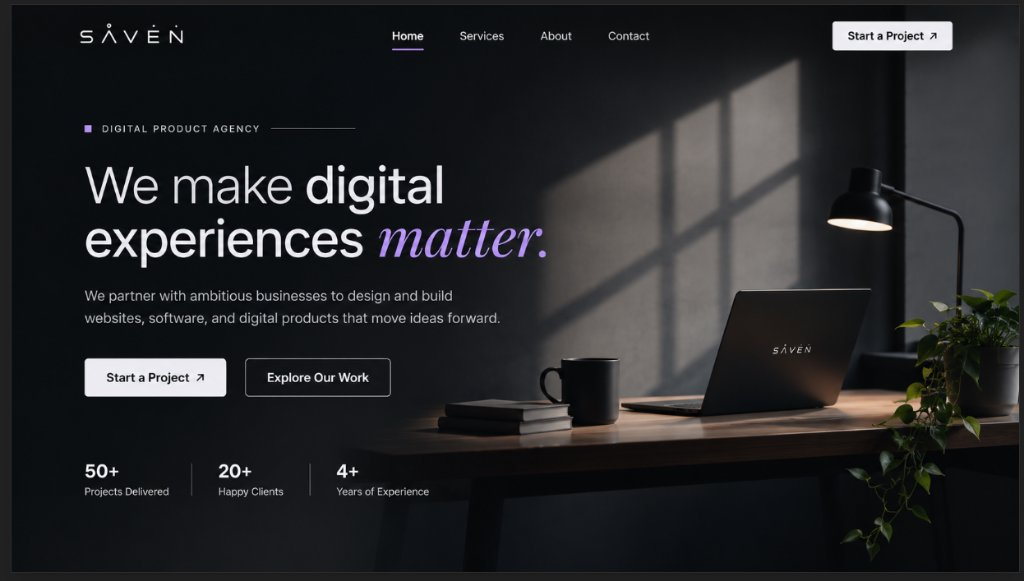
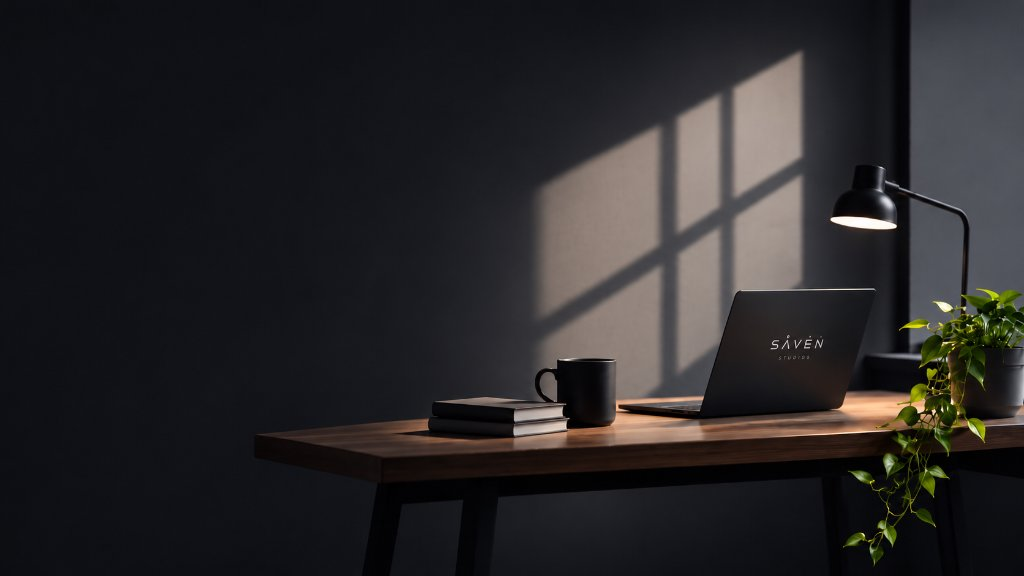
fixed the images in hero section

diff --git a/src/components/Hero.tsx b/src/components/Hero.tsx
@@ -1,6 +1,7 @@
 'use client';
 
 import React from 'react';
+import Image from 'next/image';
 import { ArrowUpRight } from 'lucide-react';
 
 interface HeroProps {
@@ -14,32 +15,36 @@ export const Hero: React.FC<HeroProps> = ({ onStartProject, onExploreServices })
       id="home"
       className="relative min-h-[100dvh] sm:min-h-screen flex items-center pt-28 pb-16 sm:pt-36 sm:pb-24 md:pt-44 md:pb-28 overflow-hidden bg-[#090a0e] text-white border-b border-neutral-900"
     >
-      {/* Background Cinematic Desk Scene (Laptop, lamp, desk, window shadows) */}
+      {/* Background Cinematic Desk Scene (SAVEN laptop, desk lamp, books, cascading plant) */}
       <div className="absolute inset-0 z-0 pointer-events-none overflow-hidden select-none bg-[#090a0e]">
-        {/* Desk scene image on the right with CSS mask completely eliminating the left 50% */}
-        <div
-          className="absolute inset-0 bg-cover bg-right md:bg-right-center bg-no-repeat opacity-85 md:opacity-95"
-          style={{
-            backgroundImage: `url('/api/hero-image')`,
-            maskImage:
-              'linear-gradient(to right, transparent 0%, transparent 50%, rgba(0,0,0,0.5) 56%, black 66%, black 100%)',
-            WebkitMaskImage:
-              'linear-gradient(to right, transparent 0%, transparent 50%, rgba(0,0,0,0.5) 56%, black 66%, black 100%)',
-          }}
-        />
+        {/* Next.js optimized high-fidelity responsive hero background */}
+        <div className="relative w-full h-full">
+          <Image
+            src="/hero-bg-2x.jpg"
+            alt="SAVEN Creative Workspace"
+            fill
+            priority
+            quality={95}
+            sizes="100vw"
+            className="object-cover object-[75%_center] md:object-right opacity-85 md:opacity-95 transition-opacity duration-700"
+          />
+        </div>
 
-        {/* 100% Solid studio black backing covering the left half to permanently eliminate any ghost text */}
+        {/* Mobile Scrim: Top-to-bottom dark gradient ensuring text is 100% legible while the warm desk scene shines through below */}
+        <div className="absolute inset-0 md:hidden bg-gradient-to-b from-[#090a0e]/95 via-[#090a0e]/75 to-[#090a0e]/40 pointer-events-none" />
+
+        {/* Desktop Scrim: Left-to-right fade so typography sits on pure dark studio backing and seamlessly blends into the desk scene */}
         <div
-          className="absolute inset-0 pointer-events-none"
+          className="hidden md:block absolute inset-0 pointer-events-none"
           style={{
             background:
-              'linear-gradient(to right, #090a0e 0%, #090a0e 48%, rgba(9, 10, 14, 0.95) 53%, rgba(9, 10, 14, 0.65) 60%, transparent 72%)',
+              'linear-gradient(to right, #090a0e 0%, #090a0e 38%, rgba(9, 10, 14, 0.88) 48%, rgba(9, 10, 14, 0.45) 58%, transparent 72%)',
           }}
         />
 
-        {/* Vertical ambient fades for seamless navbar and section transitions */}
-        <div className="absolute inset-x-0 top-0 h-28 bg-gradient-to-b from-black/90 via-black/40 to-transparent pointer-events-none" />
-        <div className="absolute inset-x-0 bottom-0 h-32 bg-gradient-to-t from-black via-black/80 to-transparent pointer-events-none" />
+        {/* Seamless edge fades for top navbar and bottom section transitions */}
+        <div className="absolute inset-x-0 top-0 h-24 sm:h-32 bg-gradient-to-b from-[#090a0e] via-[#090a0e]/60 to-transparent pointer-events-none" />
+        <div className="absolute inset-x-0 bottom-0 h-24 sm:h-32 bg-gradient-to-t from-[#090a0e] via-[#090a0e]/80 to-transparent pointer-events-none" />
       </div>
 
       <div className="relative z-10 max-w-7xl mx-auto px-4 sm:px-6 lg:px-8 w-full">

diff --git a/src/components/SavenBrandWordmark.tsx b/src/components/SavenBrandWordmark.tsx
@@ -1,0 +1,56 @@
+import React from 'react';
+
+interface SavenBrandWordmarkProps {
+  className?: string;
+  fill?: string;
+}
+
+/**
+ * SAVEN Brand Wordmark - Architectural Precision Vector
+ * Mathematical CAD-grade geometry: zero wobble, zero blurring, pure crystal clarity.
+ */
+export const SavenBrandWordmark: React.FC<SavenBrandWordmarkProps> = ({
+  className = 'w-full h-auto',
+  fill = '#FFFFFF',
+}) => {
+  return (
+    <svg
+      xmlns="http://www.w3.org/2000/svg"
+      viewBox="0 0 584 97"
+      fill={fill}
+      shapeRendering="geometricPrecision"
+      className={className}
+      aria-label="SAVEN"
+      role="img"
+    >
+      {/* 5 Precision Accent Dots */}
+      <g id="saven-dots">
+        <circle cx="41.68" cy="9.34" r="5.80" />
+        <circle cx="164.50" cy="9.34" r="5.80" />
+        <circle cx="291.22" cy="9.34" r="5.80" />
+        <circle cx="418.79" cy="9.34" r="5.80" />
+        <circle cx="543.44" cy="9.34" r="5.80" />
+      </g>
+
+      {/* 5 Precision Letters: S, A, V, E, N */}
+      <g id="saven-letters">
+        {/* Letter S: Architectural geometry with flat horizontal bars, vertical caps, and mathematical Bezier bends */}
+        <path d="M 70.50 33.50 L 21.00 33.50 C 11.83 33.50, 4.40 40.55, 4.40 49.25 C 4.40 57.95, 11.83 65.00, 21.00 65.00 L 55.00 65.00 C 60.96 65.00, 65.80 69.70, 65.80 75.50 C 65.80 81.30, 60.96 86.00, 55.00 86.00 L 4.20 86.00 L 4.20 92.00 L 55.00 92.00 C 64.83 92.00, 72.80 84.61, 72.80 75.50 C 72.80 66.39, 64.83 59.00, 55.00 59.00 L 21.00 59.00 C 15.70 59.00, 11.40 54.63, 11.40 49.25 C 11.40 43.87, 15.70 39.50, 21.00 39.50 L 70.50 39.50 Z" />
+
+        {/* Letter A: Precision inverted chevron */}
+        <path d="M 206.00 92.00 L 198.80 92.00 L 165.50 43.50 L 132.20 92.00 L 124.60 92.00 L 165.50 33.00 Z" />
+
+        {/* Letter V: Precision chevron */}
+        <path d="M 291.60 92.30 L 251.20 33.80 L 258.80 33.80 L 291.60 81.70 L 324.70 33.80 L 332.10 33.80 Z" />
+
+        {/* Letter E: Clean architectural lines */}
+        <path d="M 447.50 92.00 L 388.50 92.00 L 388.50 33.50 L 447.50 33.50 L 447.50 39.50 L 395.50 39.50 L 395.50 59.00 L 442.50 59.00 L 442.50 64.80 L 395.50 64.80 L 395.50 86.00 L 447.50 86.00 Z" />
+
+        {/* Letter N: Clean vertical spines and diagonal */}
+        <path d="M 578.50 92.00 L 571.50 90.50 L 515.50 43.70 L 515.50 92.00 L 509.50 92.00 L 509.50 33.50 L 515.50 33.50 L 572.50 82.30 L 572.50 33.50 L 578.50 33.50 Z" />
+      </g>
+    </svg>
+  );
+};
+
+export default SavenBrandWordmark;

diff --git a/src/components/ShatterIntro.tsx b/src/components/ShatterIntro.tsx
@@ -3,6 +3,7 @@
 import React, { useState, useEffect, useRef, useCallback } from 'react';
 import Image from 'next/image';
 import { ShatterType, ShatterTypeHandle } from './ShatterType';
+import { SavenBrandWordmark } from './SavenBrandWordmark';
 
 interface ShatterIntroProps {
   onComplete: () => void;
@@ -213,13 +214,8 @@ export const ShatterIntro: React.FC<ShatterIntroProps> = ({
         >
           {/* Logo Container - spans full prominent width across screen */}
           <div className="relative inline-block max-w-[1500px] w-[92vw] sm:w-[90vw] md:w-[88vw] lg:w-[86vw]">
-            {/* Exact Brand Wordmark: SAVEN with dots Ś À V̇ Ė Ṅ */}
-            <Image
-              src="/saven-logo-transparent.png"
-              alt="SAVEN"
-              width={1500}
-              height={249}
-              priority
+            {/* Exact Brand Wordmark: SAVEN with dots Ś À V̇ Ė Ṅ - Architectural precision vector */}
+            <SavenBrandWordmark
               className="w-full h-auto object-contain select-none transition-transform duration-700 ease-out"
             />
 
@@ -228,8 +224,8 @@ export const ShatterIntro: React.FC<ShatterIntroProps> = ({
               <div
                 className="absolute pointer-events-none z-30"
                 style={{
-                  top: '12%',
-                  right: '6.8%',
+                  top: '9.6%',
+                  right: '6.9%',
                   transform: 'translate(50%, -50%)',
                 }}
               >

diff --git a/src/components/Logo.tsx b/src/components/Logo.tsx
@@ -1,7 +1,7 @@
 'use client';
 
 import React from 'react';
-import Image from 'next/image';
+import { SavenBrandWordmark } from './SavenBrandWordmark';
 
 interface LogoProps {
   className?: string;
@@ -31,14 +31,10 @@ export const Logo: React.FC<LogoProps> = ({
       aria-label="SAVEN Digital Solutions"
     >
       <div className="relative flex items-center">
-        {/* Exact SAVEN Brand Wordmark Asset */}
-        <Image
-          src="/saven-logo-transparent.png"
-          alt="SAVEN"
-          width={sizeMap.width}
-          height={sizeMap.height}
-          priority
-          className={`object-contain transition-all duration-300 group-hover:brightness-110 ${sizeMap.className} ${invertFilter}`}
+        {/* Exact SAVEN Brand Wordmark Asset - Architectural Vector */}
+        <SavenBrandWordmark
+          fill={variant === 'black' ? '#000000' : '#FFFFFF'}
+          className={`object-contain transition-all duration-300 group-hover:brightness-110 ${sizeMap.className}`}
         />
       </div>
     </div>

diff --git a/src/app/api/hero-image/route.ts b/src/app/api/hero-image/route.ts
@@ -3,27 +3,11 @@ import fs from 'fs';
 import path from 'path';
 
 export async function GET() {
-  const sourcePath = 'C:/Users/lkhai/.gemini/antigravity/brain/28abced2-8eda-4f23-9b9d-0d5b1be5ed18/.user_uploaded/media_1793727426125_104d5580.jpg';
   const publicDest = path.join(process.cwd(), 'public', 'hero-bg.jpg');
 
   try {
     if (fs.existsSync(publicDest)) {
       const buffer = fs.readFileSync(publicDest);
-      return new NextResponse(buffer, {
-        headers: {
-          'Content-Type': 'image/jpeg',
-          'Cache-Control': 'public, max-age=31536000, immutable',
-        },
-      });
-    }
-
-    if (fs.existsSync(sourcePath)) {
-      const buffer = fs.readFileSync(sourcePath);
-      try {
-        fs.writeFileSync(publicDest, buffer);
-      } catch {
-        // Ignored if public folder write is restricted
-      }
       return new NextResponse(buffer, {
         headers: {
           'Content-Type': 'image/jpeg',

diff --git a/src/components/ShatterType.tsx b/src/components/ShatterType.tsx
@@ -654,6 +654,8 @@ export const ShatterType = forwardRef<ShatterTypeHandle, ShatterTypeProps>(funct
       ctx.setTransform(1, 0, 0, 1, 0, 0);
       ctx.clearRect(0, 0, textCanvas.width, textCanvas.height);
       ctx.setTransform(dpr, 0, 0, dpr, 0, 0);
+      ctx.imageSmoothingEnabled = true;
+      ctx.imageSmoothingQuality = 'high';
 
       let minTextX = Infinity;
       let maxTextX = -Infinity;

diff --git a/next.config.ts b/next.config.ts
@@ -4,6 +4,9 @@ const nextConfig: NextConfig = {
   /* config options here */
   cacheComponents: true,
   partialPrefetching: true,
+  images: {
+    qualities: [75, 95],
+  },
   turbopack: {
     rules: {
       "*.css": {
